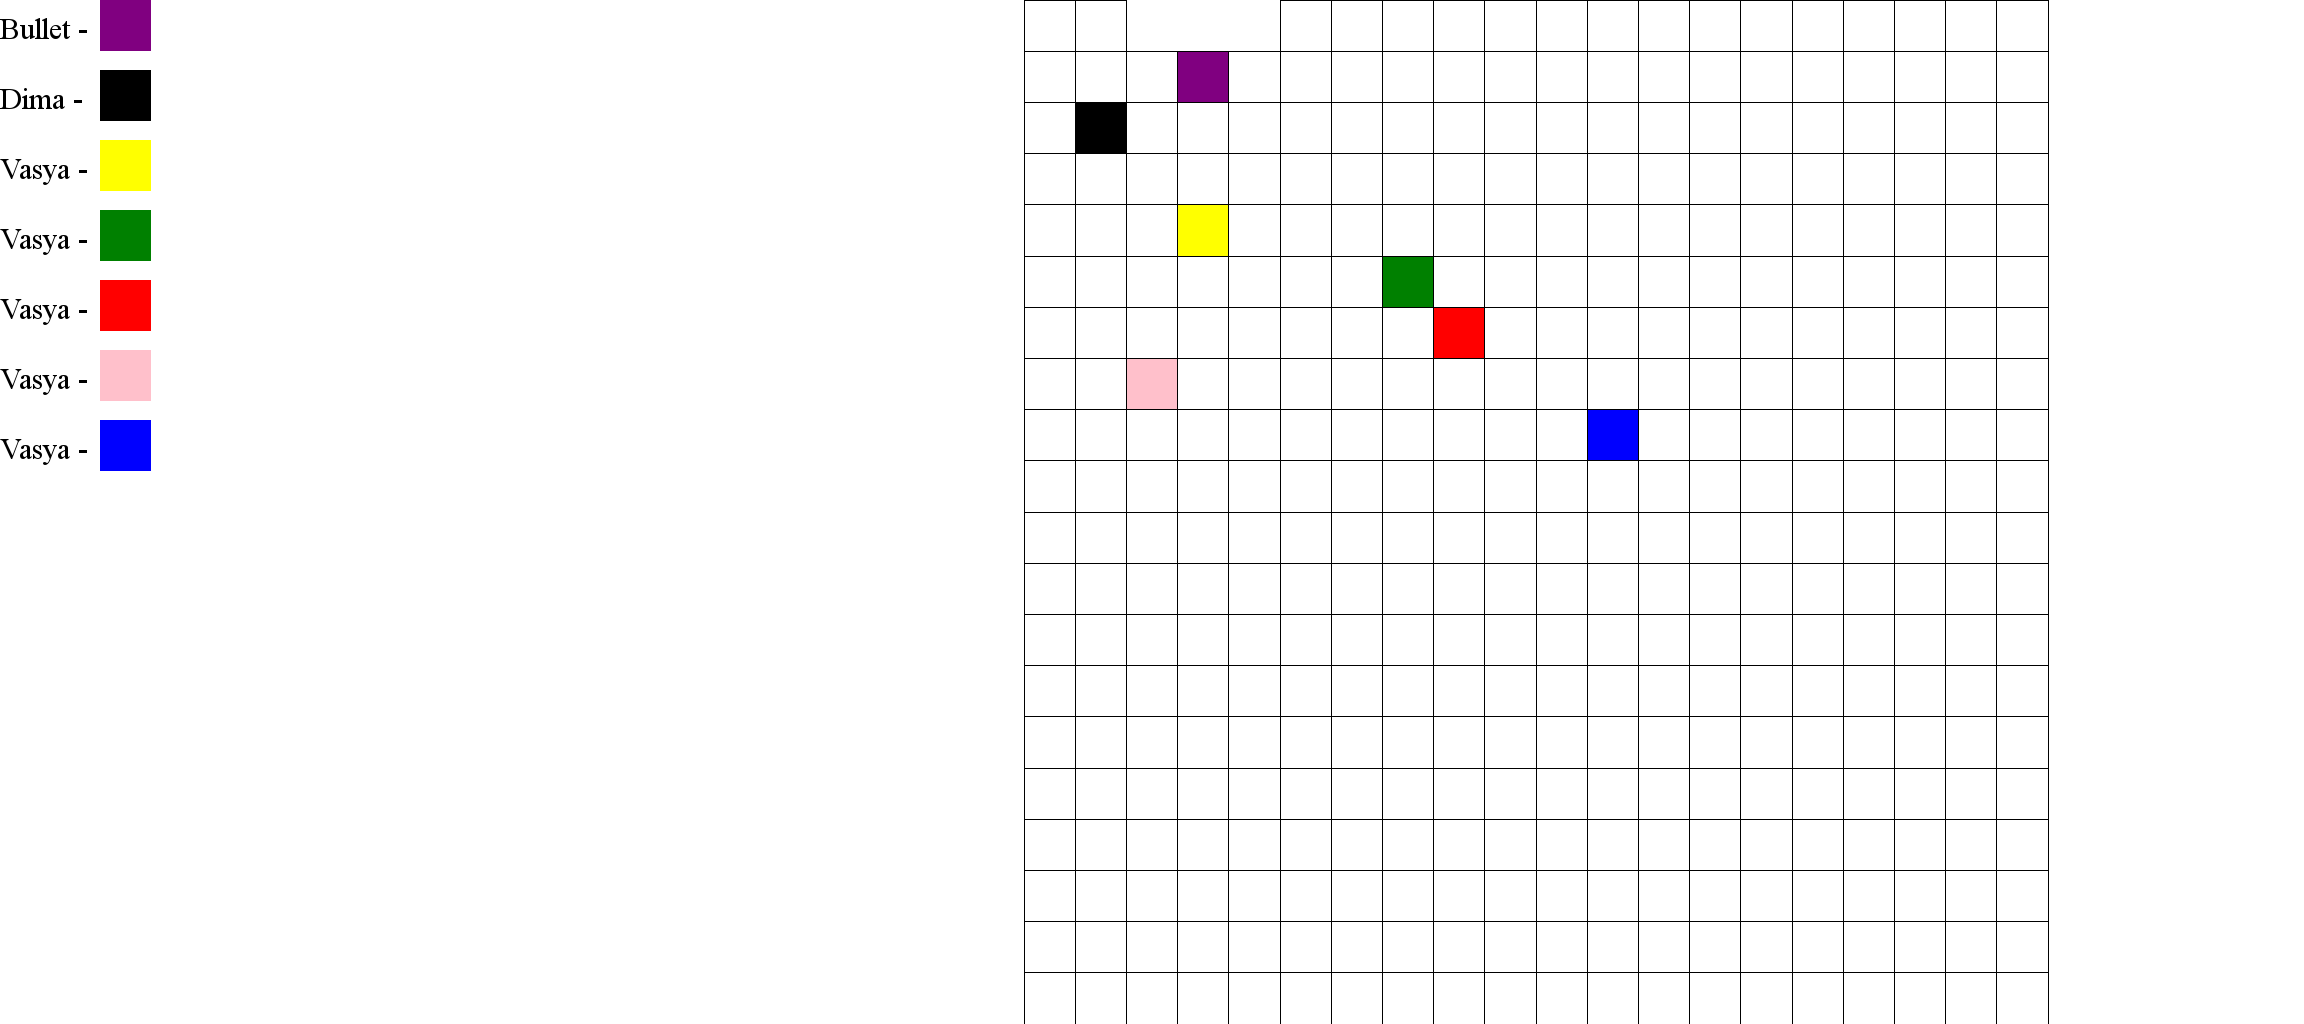
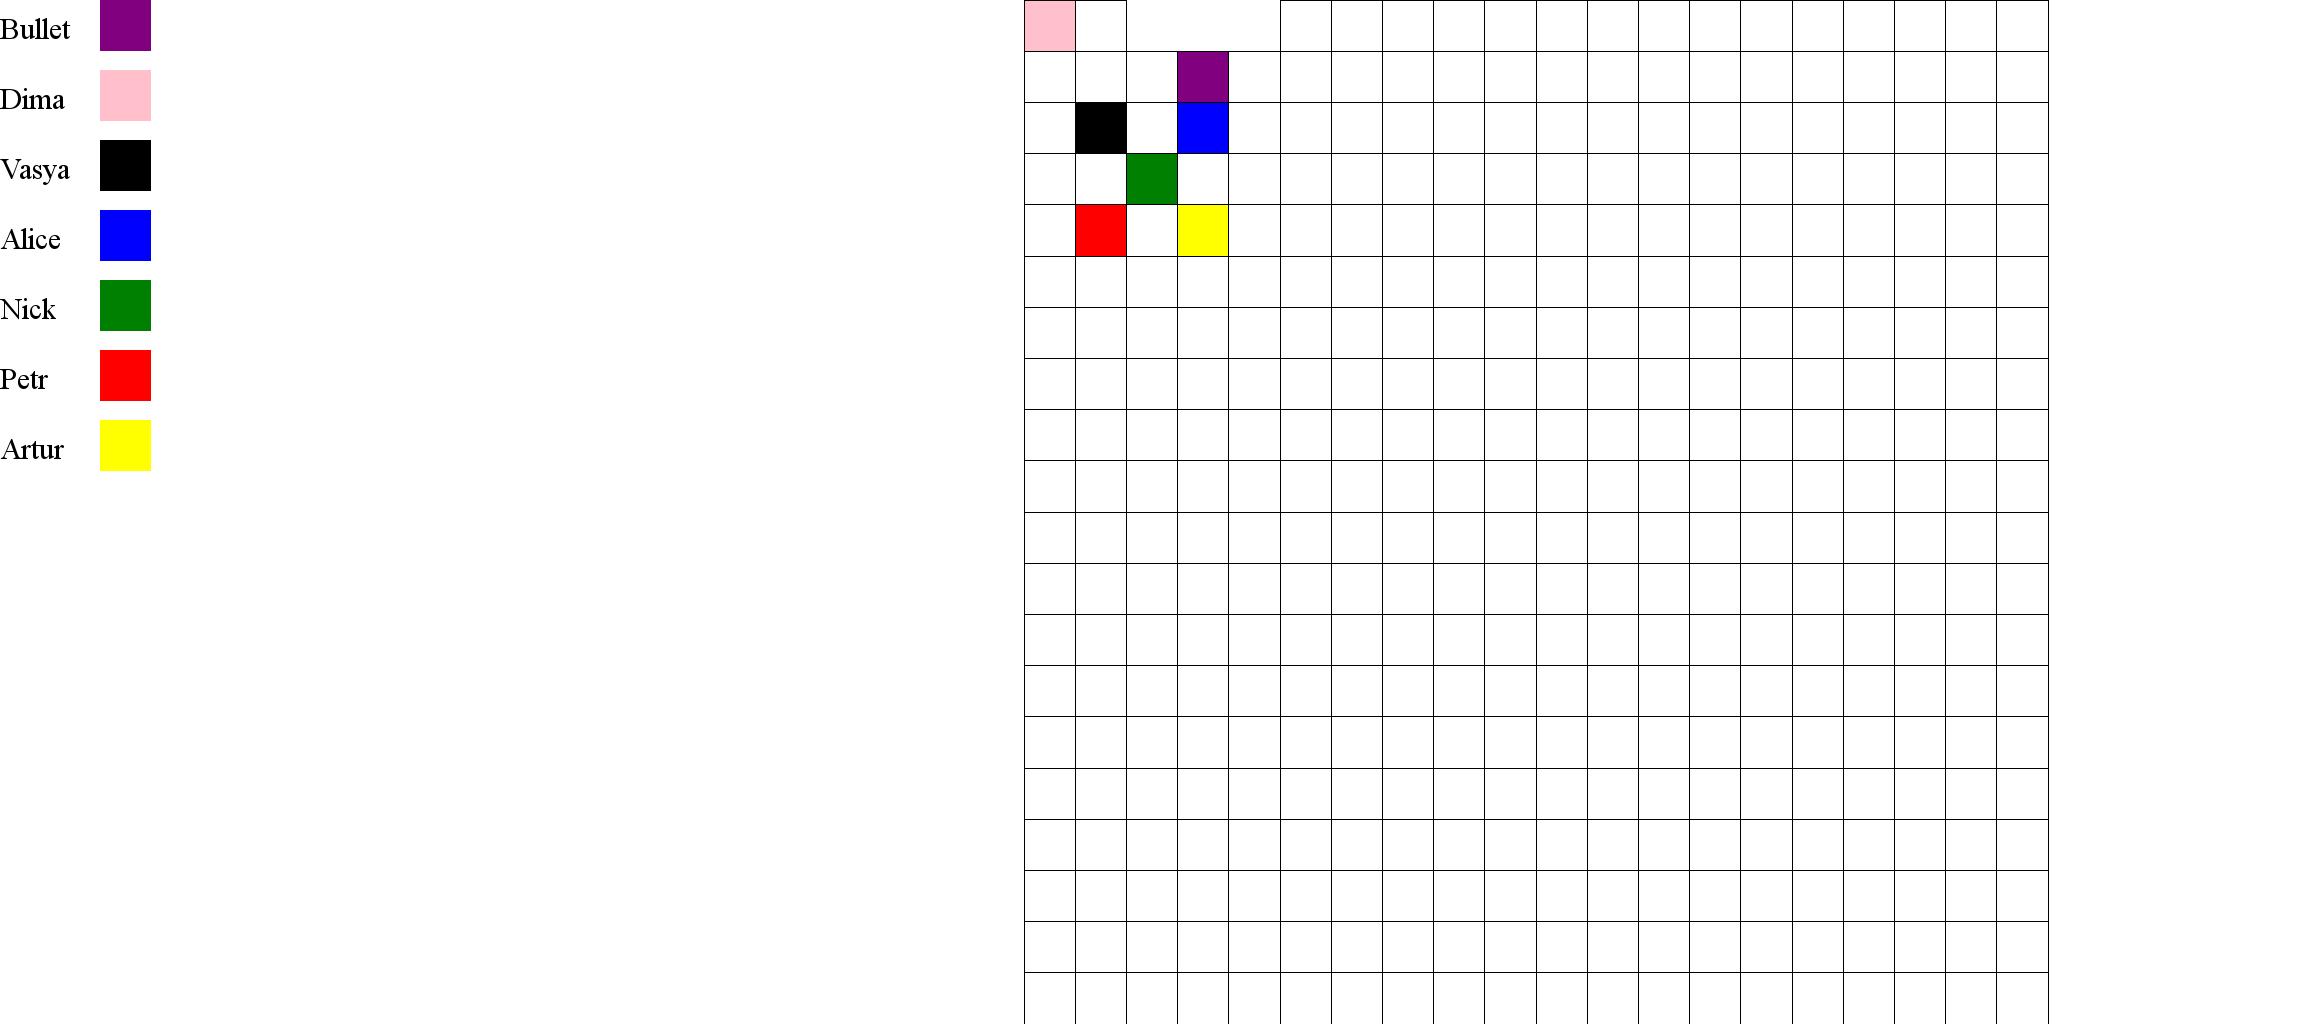
Modified painter.py

diff --git a/games/pepelac/painter.py b/games/pepelac/painter.py
@@ -24,7 +24,7 @@ class Painter:
         x = 100
         y = players * (SMALL_SIDE + MARGIN)
         draw.text((0, y + SMALL_SIDE / 4),
-                  text + ' - ',
+                  text,
                   fill='black',
                   font=font
                   )
@@ -50,7 +50,7 @@ class Painter:
         '''
         colors = ['', 'black', 'yellow', 'green', 'pink', 'red', 'blue']
         self.draw_on_the_left(0, 'Bullet', 'purple', image)
-        players = 1
+        number_of_players = 1
 
         for i, row in enumerate(jury_state.field):
             for j, cell in enumerate(row):
@@ -68,16 +68,16 @@ class Painter:
                 elif cell == 0:
                     draw.rectangle(rectangle, outline='black')
                 else:
-                    name = players[players - 1].author_name
-                    self.draw_on_the_left(players,
-                                          jury_state.name + ' - ',
+                    name = jury_state.players[number_of_players - 1].author_name
+                    self.draw_on_the_left(number_of_players,
+                                          name,
                                           colors[cell], image
                                           )
                     draw.rectangle(rectangle,
                                    fill=colors[cell],
                                    outline='black'
                                    )
-                    players += 1
+                    number_of_players += 1
 
                 del draw
 
@@ -85,13 +85,13 @@ class Painter:
         Finish drawing field
         '''
 
-        #image.save("test.png", "PNG") #if you want to see picture
-        bytes = BytesIO()
-        image.save(bytes, format='png')
-        return bytes.getvalue()
+        image.save("test-1.png", "PNG") #if you want to see picture
+        #bytes = BytesIO()
+        #image.save(bytes, format='png')
+        #return bytes.getvalue()
 
-'''painter = Painter()
-side = 20
+painter = Painter()
+side = 7
 field = [[0 for i in range(side)] for j in range(side)]
 field[0][2] = -2
 field[0][3] = -2
@@ -99,13 +99,13 @@ field[0][4] = -2
 field[1][3] = -1
 field[2][1] = 1
 field[4][3] = 2
-field[5][7] = 3
-field[7][2] = 4
-field[6][8] = 5
-field[8][11] = 6
+field[3][2] = 3
+field[0][0] = 4
+field[4][1] = 5
+field[2][3] = 6
 jury_state = JuryState(side, field, None, None,
                        [Player(None, 'Dima'), Player(None, 'Vasya'),
-                        Player(None, 'Vasya'), Player(None, 'Vasya'),
-                        Player(None, 'Vasya'), Player(None, 'Vasya')]
+                        Player(None, 'Alice'), Player(None, 'Nick'),
+                        Player(None, 'Petr'), Player(None, 'Artur')]
                        )
-painter.paint(jury_state)'''
+painter.paint(jury_state)
